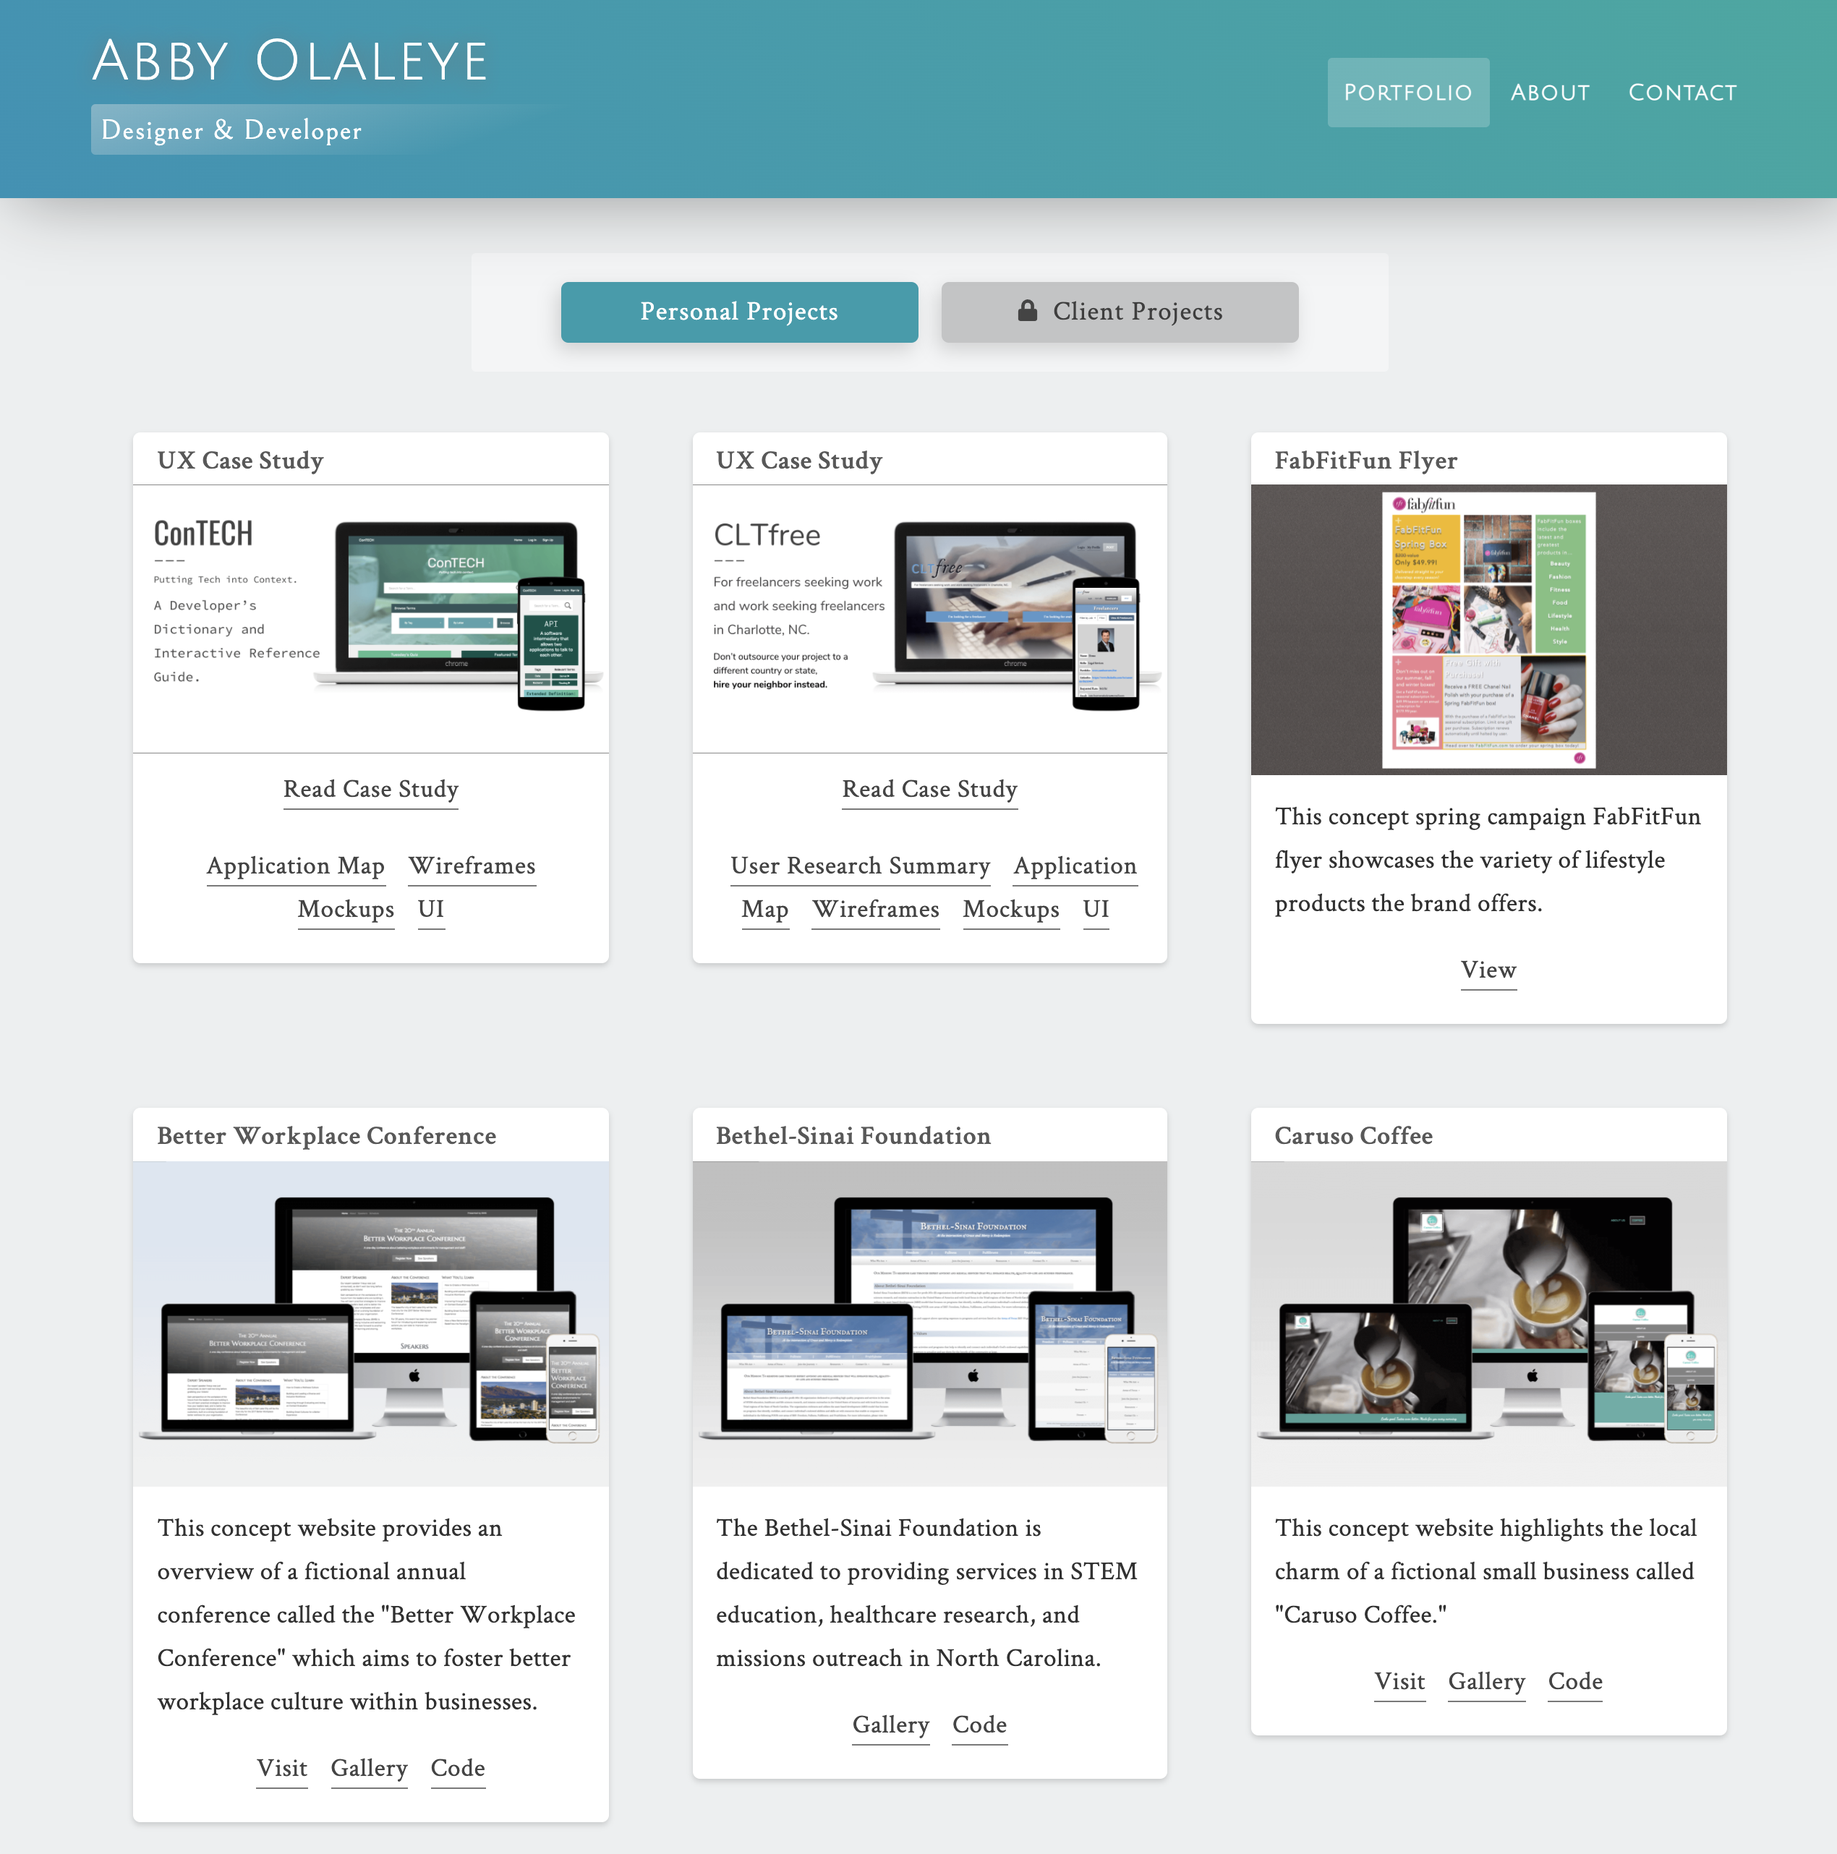
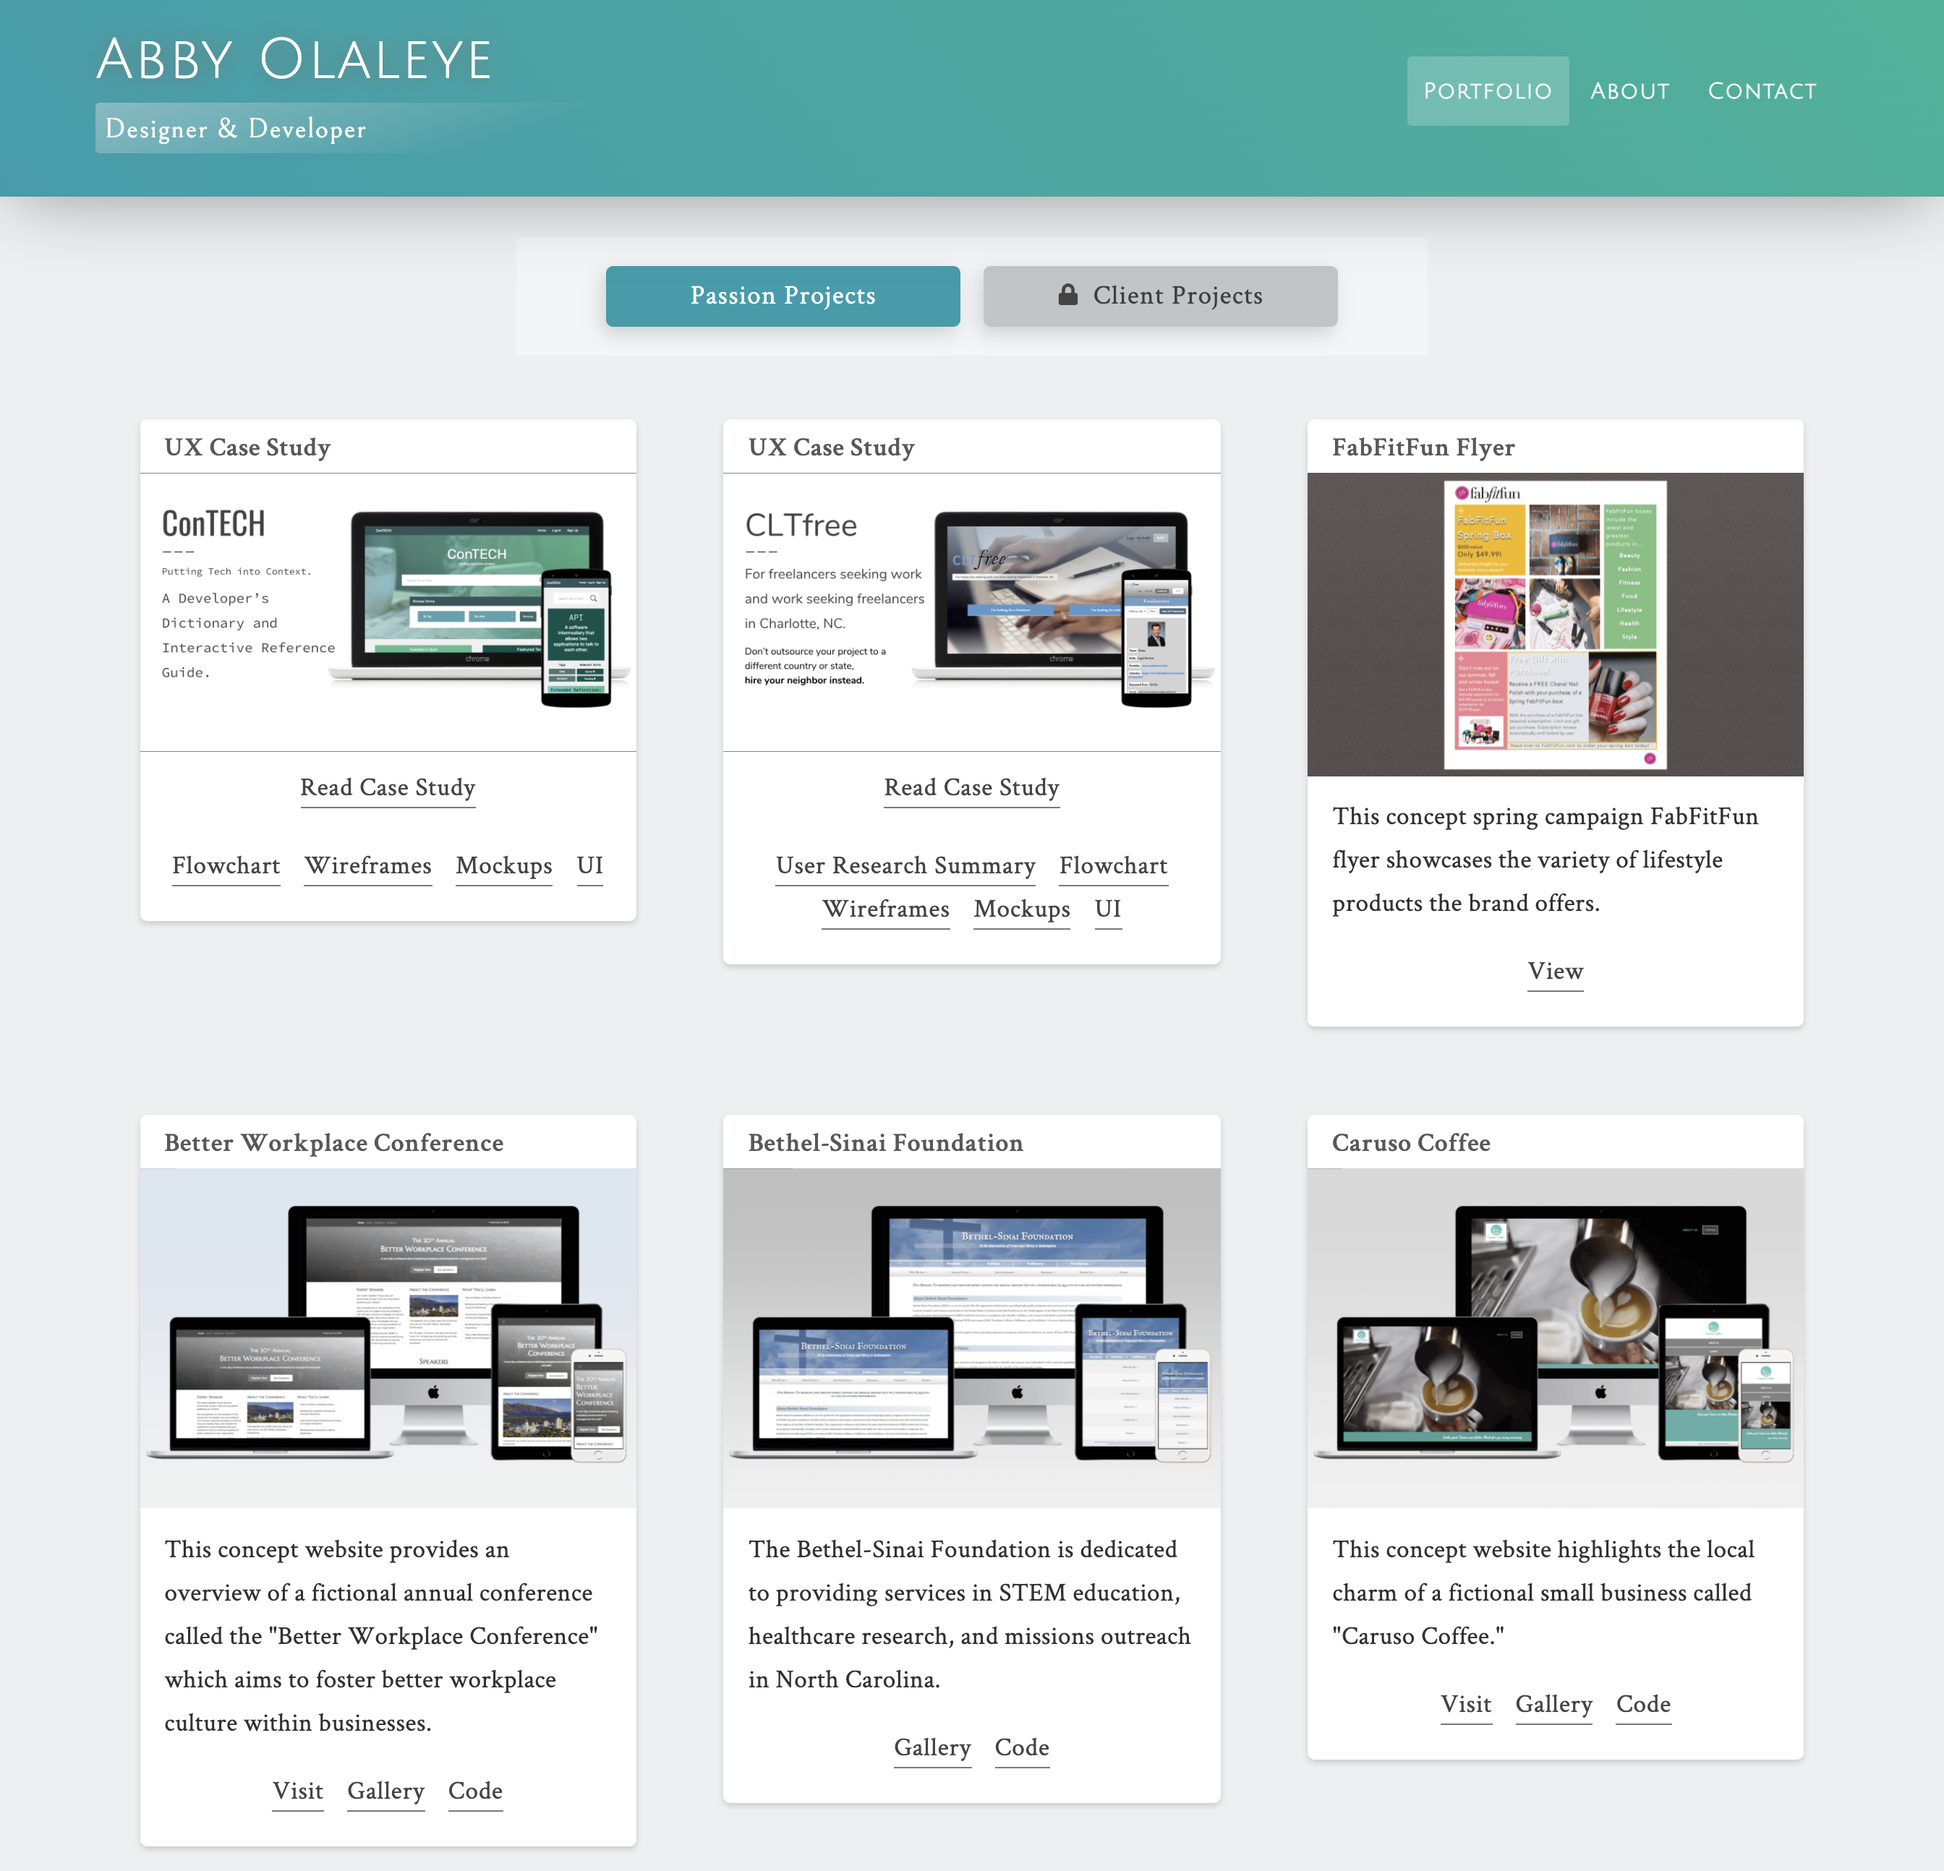
update content

diff --git a/index.html b/index.html
@@ -50,7 +50,7 @@
       <!-- <li class="dev-category">Development</li>
       <li class="ux-category">UX</li>
       <li class="ui-category">UI</li> -->
-      <li class="dev-category">Personal Projects</li>
+      <li class="dev-category">Passion Projects</li>
       <li class="ux-category">
         <img src="svg/lock.svg" alt="lock icon" class="lock-icon">Client Projects
         <!-- <p class="subnote"><img src="svg/lock.svg" alt="lock icon" class="lock-icon"></p> -->
@@ -75,7 +75,7 @@
             </div>
             <div class="live-links">
               <!-- <a data-fancybox="ux-contech-persona" href="img/ux/ux-contech7.png" class="live-site"><h3>User Persona</h3></a> -->
-              <a data-fancybox="ux-contech-map" href="img/ux/ux-contech9.png" class="live-site"><h3>Application Map</h3></a>
+              <a data-fancybox="ux-contech-map" href="img/ux/ux-contech9.png" class="live-site"><h3>Flowchart</h3></a>
               <a data-fancybox="ux-contech-wireframes" href="img/ux/ux-contech11.png" class="live-site"><h3>Wireframes</h3></a>
               <a data-fancybox="ux-contech-mockups" href="img/ux/ux-contech16.png" class="live-site"><h3>Mockups</h3></a>
               <a data-fancybox="ux-contech-frontend" href="img/contech3.png" class="live-site"><h3>UI</h3></a>
@@ -127,7 +127,7 @@
             </div>
             <div class="live-links">
               <a data-fancybox="ux-cltfree-summary" href="img/ux/ux-cltfree5.png" class="live-site"><h3>User Research Summary</h3></a>
-              <a data-fancybox="ux-cltfree-map" href="img/ux/ux-cltfree7.png" class="live-site"><h3>Application Map</h3></a>
+              <a data-fancybox="ux-cltfree-map" href="img/ux/ux-cltfree7.png" class="live-site"><h3>Flowchart</h3></a>
               <a data-fancybox="ux-cltfree-wireframes" href="img/ux/ux-cltfree9.png" class="live-site"><h3>Wireframes</h3></a>
               <a data-fancybox="ux-cltfree-mockups" href="img/ux/ux-cltfree16.png" class="live-site"><h3>Mockups</h3></a>
               <a data-fancybox="ux-cltfree-frontend" href="img/cltfree1.png" class="live-site"><h3>UI</h3></a>

diff --git a/css/main.css b/css/main.css
@@ -94,7 +94,7 @@ header {
 }
 
 .filter li:hover {
-  background: #56b6c1 !important;
+  background: #189dac !important;
   color: white !important;
 }
 
@@ -1338,12 +1338,12 @@ Responsive Layout
   ************************************/
 
   .portfolio-wrapper {
-    max-width: 90%;
-    margin: 0;
+    max-width: 1800px;
+    margin: 0 auto;
   }
 
   .wrapper {
-    max-width: 80%;
+    max-width: 1200px;
     margin: 0 auto;
   }
 
